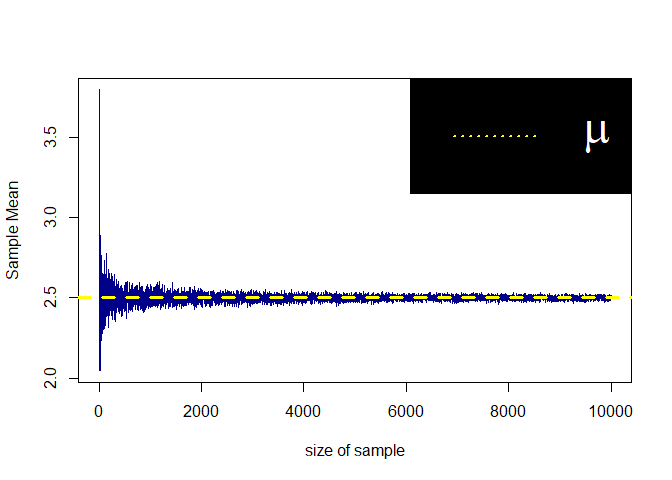
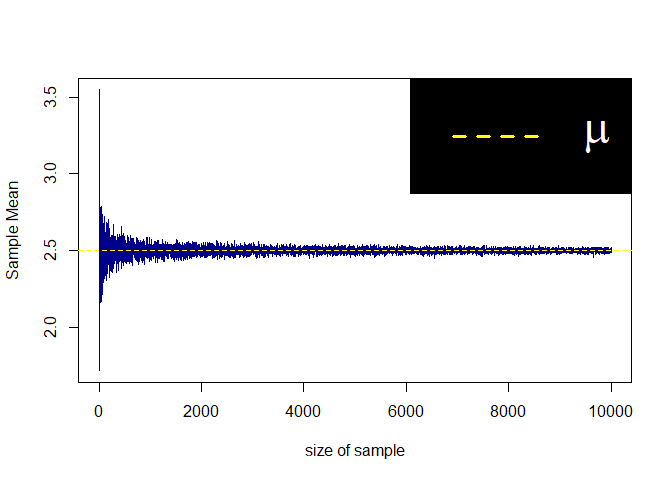
updated

diff --git a/create_matrix_triangular_simulate_Normal_Restricted.html b/create_matrix_triangular_simulate_Normal_Restricted.html
@@ -659,8 +659,8 @@ arguments.</h4>
 <span id="cb5-12"><a href="#cb5-12" aria-hidden="true" tabindex="-1"></a>}</span>
 <span id="cb5-13"><a href="#cb5-13" aria-hidden="true" tabindex="-1"></a>s <span class="ot">&lt;-</span> <span class="fu">create_normal_restrict</span>(<span class="at">size =</span> <span class="dv">10</span>, <span class="at">Mu =</span> <span class="dv">0</span>, <span class="at">Sig =</span> <span class="dv">2</span>, <span class="at">a =</span> <span class="dv">2</span>, <span class="at">b =</span> <span class="dv">4</span>)</span>
 <span id="cb5-14"><a href="#cb5-14" aria-hidden="true" tabindex="-1"></a>s</span></code></pre></div>
-<pre><code>##  [1] 2.787215 2.483093 3.952442 2.785211 3.214247 3.154735 3.557060 2.265754
-##  [9] 2.034313 2.456821 2.925736</code></pre>
+<pre><code>##  [1] 3.329284 3.418870 2.880448 2.044628 2.981418 2.177651 3.456726 3.403046
+##  [9] 2.942322 3.665778 3.821326</code></pre>
 <div class="sourceCode" id="cb7"><pre class="sourceCode r"><code class="sourceCode r"><span id="cb7-1"><a href="#cb7-1" aria-hidden="true" tabindex="-1"></a><span class="fu">all</span>(s <span class="sc">&gt;</span> <span class="dv">2</span>) <span class="sc">&amp;&amp;</span> <span class="fu">all</span>(s <span class="sc">&lt;</span> <span class="dv">4</span>)</span></code></pre></div>
 <pre><code>## [1] TRUE</code></pre>
 <hr />
@@ -680,9 +680,9 @@ arguments.</h4>
 <span id="cb9-12"><a href="#cb9-12" aria-hidden="true" tabindex="-1"></a>}</span>
 <span id="cb9-13"><a href="#cb9-13" aria-hidden="true" tabindex="-1"></a>s <span class="ot">&lt;-</span> <span class="fu">create_normal_restrict</span>(<span class="at">size =</span> <span class="dv">20</span>, <span class="at">Mu =</span> <span class="dv">2</span>, <span class="at">Sig =</span> <span class="dv">3</span>, <span class="at">a =</span> <span class="dv">3</span>, <span class="at">b =</span> <span class="dv">5</span>)</span>
 <span id="cb9-14"><a href="#cb9-14" aria-hidden="true" tabindex="-1"></a>s</span></code></pre></div>
-<pre><code>##  [1] 3.180813 3.069575 4.206359 3.441129 4.582400 4.540356 3.187712 3.147905
-##  [9] 4.811751 4.117554 3.527012 4.537769 3.922505 4.016576 3.244397 3.476991
-## [17] 4.983215 3.394077 3.072002 3.887971</code></pre>
+<pre><code>##  [1] 4.563002 4.024528 3.527224 3.115864 3.741727 3.464179 3.975816 4.690984
+##  [9] 4.826396 3.248170 3.877956 3.975064 4.936459 4.307681 3.868485 3.121748
+## [17] 3.921882 3.894073 3.142837 3.201987</code></pre>
 <div class="sourceCode" id="cb11"><pre class="sourceCode r"><code class="sourceCode r"><span id="cb11-1"><a href="#cb11-1" aria-hidden="true" tabindex="-1"></a><span class="fu">all</span>(s <span class="sc">&gt;</span> <span class="dv">3</span>) <span class="sc">&amp;&amp;</span> <span class="fu">all</span>(s <span class="sc">&lt;</span> <span class="dv">5</span>)</span></code></pre></div>
 <pre><code>## [1] TRUE</code></pre>
 <hr />
@@ -699,35 +699,34 @@ prove the weak law of large numbers</h4>
 <span id="cb13-8"><a href="#cb13-8" aria-hidden="true" tabindex="-1"></a>    list_result <span class="ot">&lt;-</span> <span class="fu">list</span>(<span class="at">Mean_result =</span> E_mean, <span class="at">list_result =</span> E)</span>
 <span id="cb13-9"><a href="#cb13-9" aria-hidden="true" tabindex="-1"></a>    <span class="cf">if</span>(showPlot){</span>
 <span id="cb13-10"><a href="#cb13-10" aria-hidden="true" tabindex="-1"></a>        <span class="fu">plot</span>(<span class="at">x =</span> <span class="dv">1</span><span class="sc">:</span>n, <span class="at">y =</span> E_mean, <span class="at">col =</span> <span class="st">&quot;darkblue&quot;</span>, <span class="at">type =</span> <span class="st">&quot;l&quot;</span>, <span class="at">xlab =</span> <span class="st">&quot;size of sample&quot;</span>, <span class="at">ylab =</span> <span class="st">&quot;Sample Mean&quot;</span>)</span>
-<span id="cb13-11"><a href="#cb13-11" aria-hidden="true" tabindex="-1"></a>        <span class="fu">abline</span>(<span class="at">h =</span> Mu, <span class="at">lwd =</span> <span class="dv">3</span>, <span class="at">lty =</span> <span class="dv">2</span>, <span class="at">col =</span> <span class="st">&quot;yellow&quot;</span>)</span>
-<span id="cb13-12"><a href="#cb13-12" aria-hidden="true" tabindex="-1"></a>        <span class="fu">legend</span>(<span class="st">&quot;topright&quot;</span>, <span class="at">legend =</span> <span class="fu">expression</span>(mu), <span class="at">lty =</span> <span class="dv">3</span>, <span class="at">lwd =</span> <span class="dv">2</span>, <span class="at">col =</span> <span class="st">&quot;yellow&quot;</span>, <span class="at">bg =</span> <span class="st">&quot;black&quot;</span>, <span class="at">cex =</span> <span class="dv">3</span>, </span>
+<span id="cb13-11"><a href="#cb13-11" aria-hidden="true" tabindex="-1"></a>        <span class="fu">abline</span>(<span class="at">h =</span> Mu, <span class="at">lwd =</span> <span class="fl">1.5</span>, <span class="at">lty =</span> <span class="dv">2</span>, <span class="at">col =</span> <span class="st">&quot;yellow&quot;</span>)</span>
+<span id="cb13-12"><a href="#cb13-12" aria-hidden="true" tabindex="-1"></a>        <span class="fu">legend</span>(<span class="st">&quot;topright&quot;</span>, <span class="at">legend =</span> <span class="fu">expression</span>(mu), <span class="at">lty =</span> <span class="dv">2</span>, <span class="at">lwd =</span> <span class="dv">3</span>, <span class="at">col =</span> <span class="st">&quot;yellow&quot;</span>, <span class="at">bg =</span> <span class="st">&quot;black&quot;</span>, <span class="at">cex =</span> <span class="dv">3</span>, </span>
 <span id="cb13-13"><a href="#cb13-13" aria-hidden="true" tabindex="-1"></a>        <span class="at">text.col =</span> <span class="st">&quot;white&quot;</span>)</span>
 <span id="cb13-14"><a href="#cb13-14" aria-hidden="true" tabindex="-1"></a>    }</span>
 <span id="cb13-15"><a href="#cb13-15" aria-hidden="true" tabindex="-1"></a>    <span class="fu">return</span>(list_result)</span>
 <span id="cb13-16"><a href="#cb13-16" aria-hidden="true" tabindex="-1"></a>}</span>
 <span id="cb13-17"><a href="#cb13-17" aria-hidden="true" tabindex="-1"></a></span>
 <span id="cb13-18"><a href="#cb13-18" aria-hidden="true" tabindex="-1"></a>Result <span class="ot">&lt;-</span> <span class="fu">Weak_law_large_num</span>(<span class="at">size =</span> <span class="fl">1e+4</span>, <span class="at">Mu =</span> <span class="fl">2.5</span>, <span class="at">showPlot =</span> T) </span></code></pre></div>
[2 lines of base64/hex data omitted]
 <div class="sourceCode" id="cb14"><pre class="sourceCode r"><code class="sourceCode r"><span id="cb14-1"><a href="#cb14-1" aria-hidden="true" tabindex="-1"></a>E <span class="ot">&lt;-</span> Result<span class="sc">$</span>list_result</span>
 <span id="cb14-2"><a href="#cb14-2" aria-hidden="true" tabindex="-1"></a>E[[<span class="dv">5</span>]]</span></code></pre></div>
-<pre><code>## [1] 3.262878 1.593083 2.795251 3.138652 2.581531</code></pre>
+<pre><code>## [1] 1.077492 4.030520 3.131422 2.348707 3.589382</code></pre>
 <div class="sourceCode" id="cb16"><pre class="sourceCode r"><code class="sourceCode r"><span id="cb16-1"><a href="#cb16-1" aria-hidden="true" tabindex="-1"></a>E[[<span class="dv">10</span>]]</span></code></pre></div>
-<pre><code>##  [1] 1.7229436 2.0240644 2.4916426 0.9277582 2.8907203 0.9146274 1.9194793
-##  [8] 4.9567248 0.5545158 2.5850719</code></pre>
+<pre><code>##  [1] 1.5053689 3.4744653 3.5785658 3.1360079 2.1990726 3.1302398 0.9256082
+##  [8] 2.1428948 1.9284358 2.3137186</code></pre>
 <div class="sourceCode" id="cb18"><pre class="sourceCode r"><code class="sourceCode r"><span id="cb18-1"><a href="#cb18-1" aria-hidden="true" tabindex="-1"></a>E[[<span class="dv">20</span>]]</span></code></pre></div>
-<pre><code>##  [1] 3.5193450 4.4503566 5.3910323 2.6142054 0.5388997 2.7319906 1.5840976
-##  [8] 2.6734690 3.1669053 3.6409381 2.9389939 3.3371811 3.3421878 3.8735887
-## [15] 1.6812619 0.6395904 2.7290516 2.6239015 2.0979262 4.1868497</code></pre>
+<pre><code>##  [1] 0.8796887 2.0430578 2.1153536 2.5230684 1.2837680 4.0416681 3.5384266
+##  [8] 1.3555942 3.0631830 4.3333647 2.1293527 3.6434273 1.1474375 1.2430225
+## [15] 1.7483939 3.0845755 1.2710736 2.4864752 1.1460746 3.1234155</code></pre>
 <div class="sourceCode" id="cb20"><pre class="sourceCode r"><code class="sourceCode r"><span id="cb20-1"><a href="#cb20-1" aria-hidden="true" tabindex="-1"></a>E[[<span class="dv">50</span>]]</span></code></pre></div>
-<pre><code>##  [1] 2.79630961 2.07174192 3.08921644 1.77748164 2.66617963 1.71480973
-##  [7] 2.89334283 1.60189604 0.14033021 3.82304949 3.50272324 2.48509268
-## [13] 2.40204977 2.57144720 0.93044675 2.49935304 3.11511673 2.90565437
-## [19] 3.49775894 3.31119155 5.11401586 2.64866640 2.46460890 3.05071311
-## [25] 0.01764354 2.13542374 3.26614672 2.69267938 3.26295078 2.20214606
-## [31] 2.12777702 2.24205620 1.88394126 2.10860434 3.52891703 1.93377206
-## [37] 1.56448768 3.13220410 3.16915131 2.20174537 2.79845354 1.91000061
-## [43] 3.20742671 2.61299206 2.61415469 4.25214172 3.67260927 3.10890179
-## [49] 1.63799093 4.46721902</code></pre>
+<pre><code>##  [1] 4.4855392 2.5046952 2.2110471 2.8011893 2.6338804 2.0414188 3.1678348
+##  [8] 2.7086089 2.4284821 1.1241315 5.5334067 3.0017154 4.9487260 1.4250147
+## [15] 2.8714870 1.5139882 3.7594581 3.5861644 2.2428904 1.9280998 4.0433153
+## [22] 0.8743913 2.5985979 2.1737700 0.8060065 3.3565356 3.3496028 1.4197788
+## [29] 1.5461643 3.2008576 1.2369647 3.1719405 3.5419376 0.3918326 1.9666093
+## [36] 2.3988044 1.8150393 1.7359145 0.7726154 2.4403573 3.6271459 1.9444124
+## [43] 0.3582610 2.7814769 2.0676327 2.7773501 2.6520091 1.2943793 2.1698242
+## [50] 3.3558391</code></pre>
 
 </body>
 </html>

diff --git a/create_matrix_triangular_simulate_Normal_Restricted.md b/create_matrix_triangular_simulate_Normal_Restricted.md
@@ -67,8 +67,8 @@ s <- create_normal_restrict(size = 10, Mu = 0, Sig = 2, a = 2, b = 4)
 s
 ```
 
-    ##  [1] 2.787215 2.483093 3.952442 2.785211 3.214247 3.154735 3.557060 2.265754
-    ##  [9] 2.034313 2.456821 2.925736
+    ##  [1] 3.329284 3.418870 2.880448 2.044628 2.981418 2.177651 3.456726 3.403046
+    ##  [9] 2.942322 3.665778 3.821326
 
 ``` r
 all(s > 2) && all(s < 4)
@@ -99,9 +99,9 @@ s <- create_normal_restrict(size = 20, Mu = 2, Sig = 3, a = 3, b = 5)
 s
 ```
 
-    ##  [1] 3.180813 3.069575 4.206359 3.441129 4.582400 4.540356 3.187712 3.147905
-    ##  [9] 4.811751 4.117554 3.527012 4.537769 3.922505 4.016576 3.244397 3.476991
-    ## [17] 4.983215 3.394077 3.072002 3.887971
+    ##  [1] 4.563002 4.024528 3.527224 3.115864 3.741727 3.464179 3.975816 4.690984
+    ##  [9] 4.826396 3.248170 3.877956 3.975064 4.936459 4.307681 3.868485 3.121748
+    ## [17] 3.921882 3.894073 3.142837 3.201987
 
 ``` r
 all(s > 3) && all(s < 5)
@@ -126,8 +126,8 @@ Weak_law_large_num <- function(size, Mu, showPlot = TRUE){
     list_result <- list(Mean_result = E_mean, list_result = E)
     if(showPlot){
         plot(x = 1:n, y = E_mean, col = "darkblue", type = "l", xlab = "size of sample", ylab = "Sample Mean")
-        abline(h = Mu, lwd = 3, lty = 2, col = "yellow")
-        legend("topright", legend = expression(mu), lty = 3, lwd = 2, col = "yellow", bg = "black", cex = 3, 
+        abline(h = Mu, lwd = 1.5, lty = 2, col = "yellow")
+        legend("topright", legend = expression(mu), lty = 2, lwd = 3, col = "yellow", bg = "black", cex = 3, 
         text.col = "white")
     }
     return(list_result)
@@ -143,33 +143,32 @@ E <- Result$list_result
 E[[5]]
 ```
 
-    ## [1] 3.262878 1.593083 2.795251 3.138652 2.581531
+    ## [1] 1.077492 4.030520 3.131422 2.348707 3.589382
 
 ``` r
 E[[10]]
 ```
 
-    ##  [1] 1.7229436 2.0240644 2.4916426 0.9277582 2.8907203 0.9146274 1.9194793
-    ##  [8] 4.9567248 0.5545158 2.5850719
+    ##  [1] 1.5053689 3.4744653 3.5785658 3.1360079 2.1990726 3.1302398 0.9256082
+    ##  [8] 2.1428948 1.9284358 2.3137186
 
 ``` r
 E[[20]]
 ```
 
-    ##  [1] 3.5193450 4.4503566 5.3910323 2.6142054 0.5388997 2.7319906 1.5840976
-    ##  [8] 2.6734690 3.1669053 3.6409381 2.9389939 3.3371811 3.3421878 3.8735887
-    ## [15] 1.6812619 0.6395904 2.7290516 2.6239015 2.0979262 4.1868497
+    ##  [1] 0.8796887 2.0430578 2.1153536 2.5230684 1.2837680 4.0416681 3.5384266
+    ##  [8] 1.3555942 3.0631830 4.3333647 2.1293527 3.6434273 1.1474375 1.2430225
+    ## [15] 1.7483939 3.0845755 1.2710736 2.4864752 1.1460746 3.1234155
 
 ``` r
 E[[50]]
 ```
 
-    ##  [1] 2.79630961 2.07174192 3.08921644 1.77748164 2.66617963 1.71480973
-    ##  [7] 2.89334283 1.60189604 0.14033021 3.82304949 3.50272324 2.48509268
-    ## [13] 2.40204977 2.57144720 0.93044675 2.49935304 3.11511673 2.90565437
-    ## [19] 3.49775894 3.31119155 5.11401586 2.64866640 2.46460890 3.05071311
-    ## [25] 0.01764354 2.13542374 3.26614672 2.69267938 3.26295078 2.20214606
-    ## [31] 2.12777702 2.24205620 1.88394126 2.10860434 3.52891703 1.93377206
-    ## [37] 1.56448768 3.13220410 3.16915131 2.20174537 2.79845354 1.91000061
-    ## [43] 3.20742671 2.61299206 2.61415469 4.25214172 3.67260927 3.10890179
-    ## [49] 1.63799093 4.46721902
+    ##  [1] 4.4855392 2.5046952 2.2110471 2.8011893 2.6338804 2.0414188 3.1678348
+    ##  [8] 2.7086089 2.4284821 1.1241315 5.5334067 3.0017154 4.9487260 1.4250147
+    ## [15] 2.8714870 1.5139882 3.7594581 3.5861644 2.2428904 1.9280998 4.0433153
+    ## [22] 0.8743913 2.5985979 2.1737700 0.8060065 3.3565356 3.3496028 1.4197788
+    ## [29] 1.5461643 3.2008576 1.2369647 3.1719405 3.5419376 0.3918326 1.9666093
+    ## [36] 2.3988044 1.8150393 1.7359145 0.7726154 2.4403573 3.6271459 1.9444124
+    ## [43] 0.3582610 2.7814769 2.0676327 2.7773501 2.6520091 1.2943793 2.1698242
+    ## [50] 3.3558391
